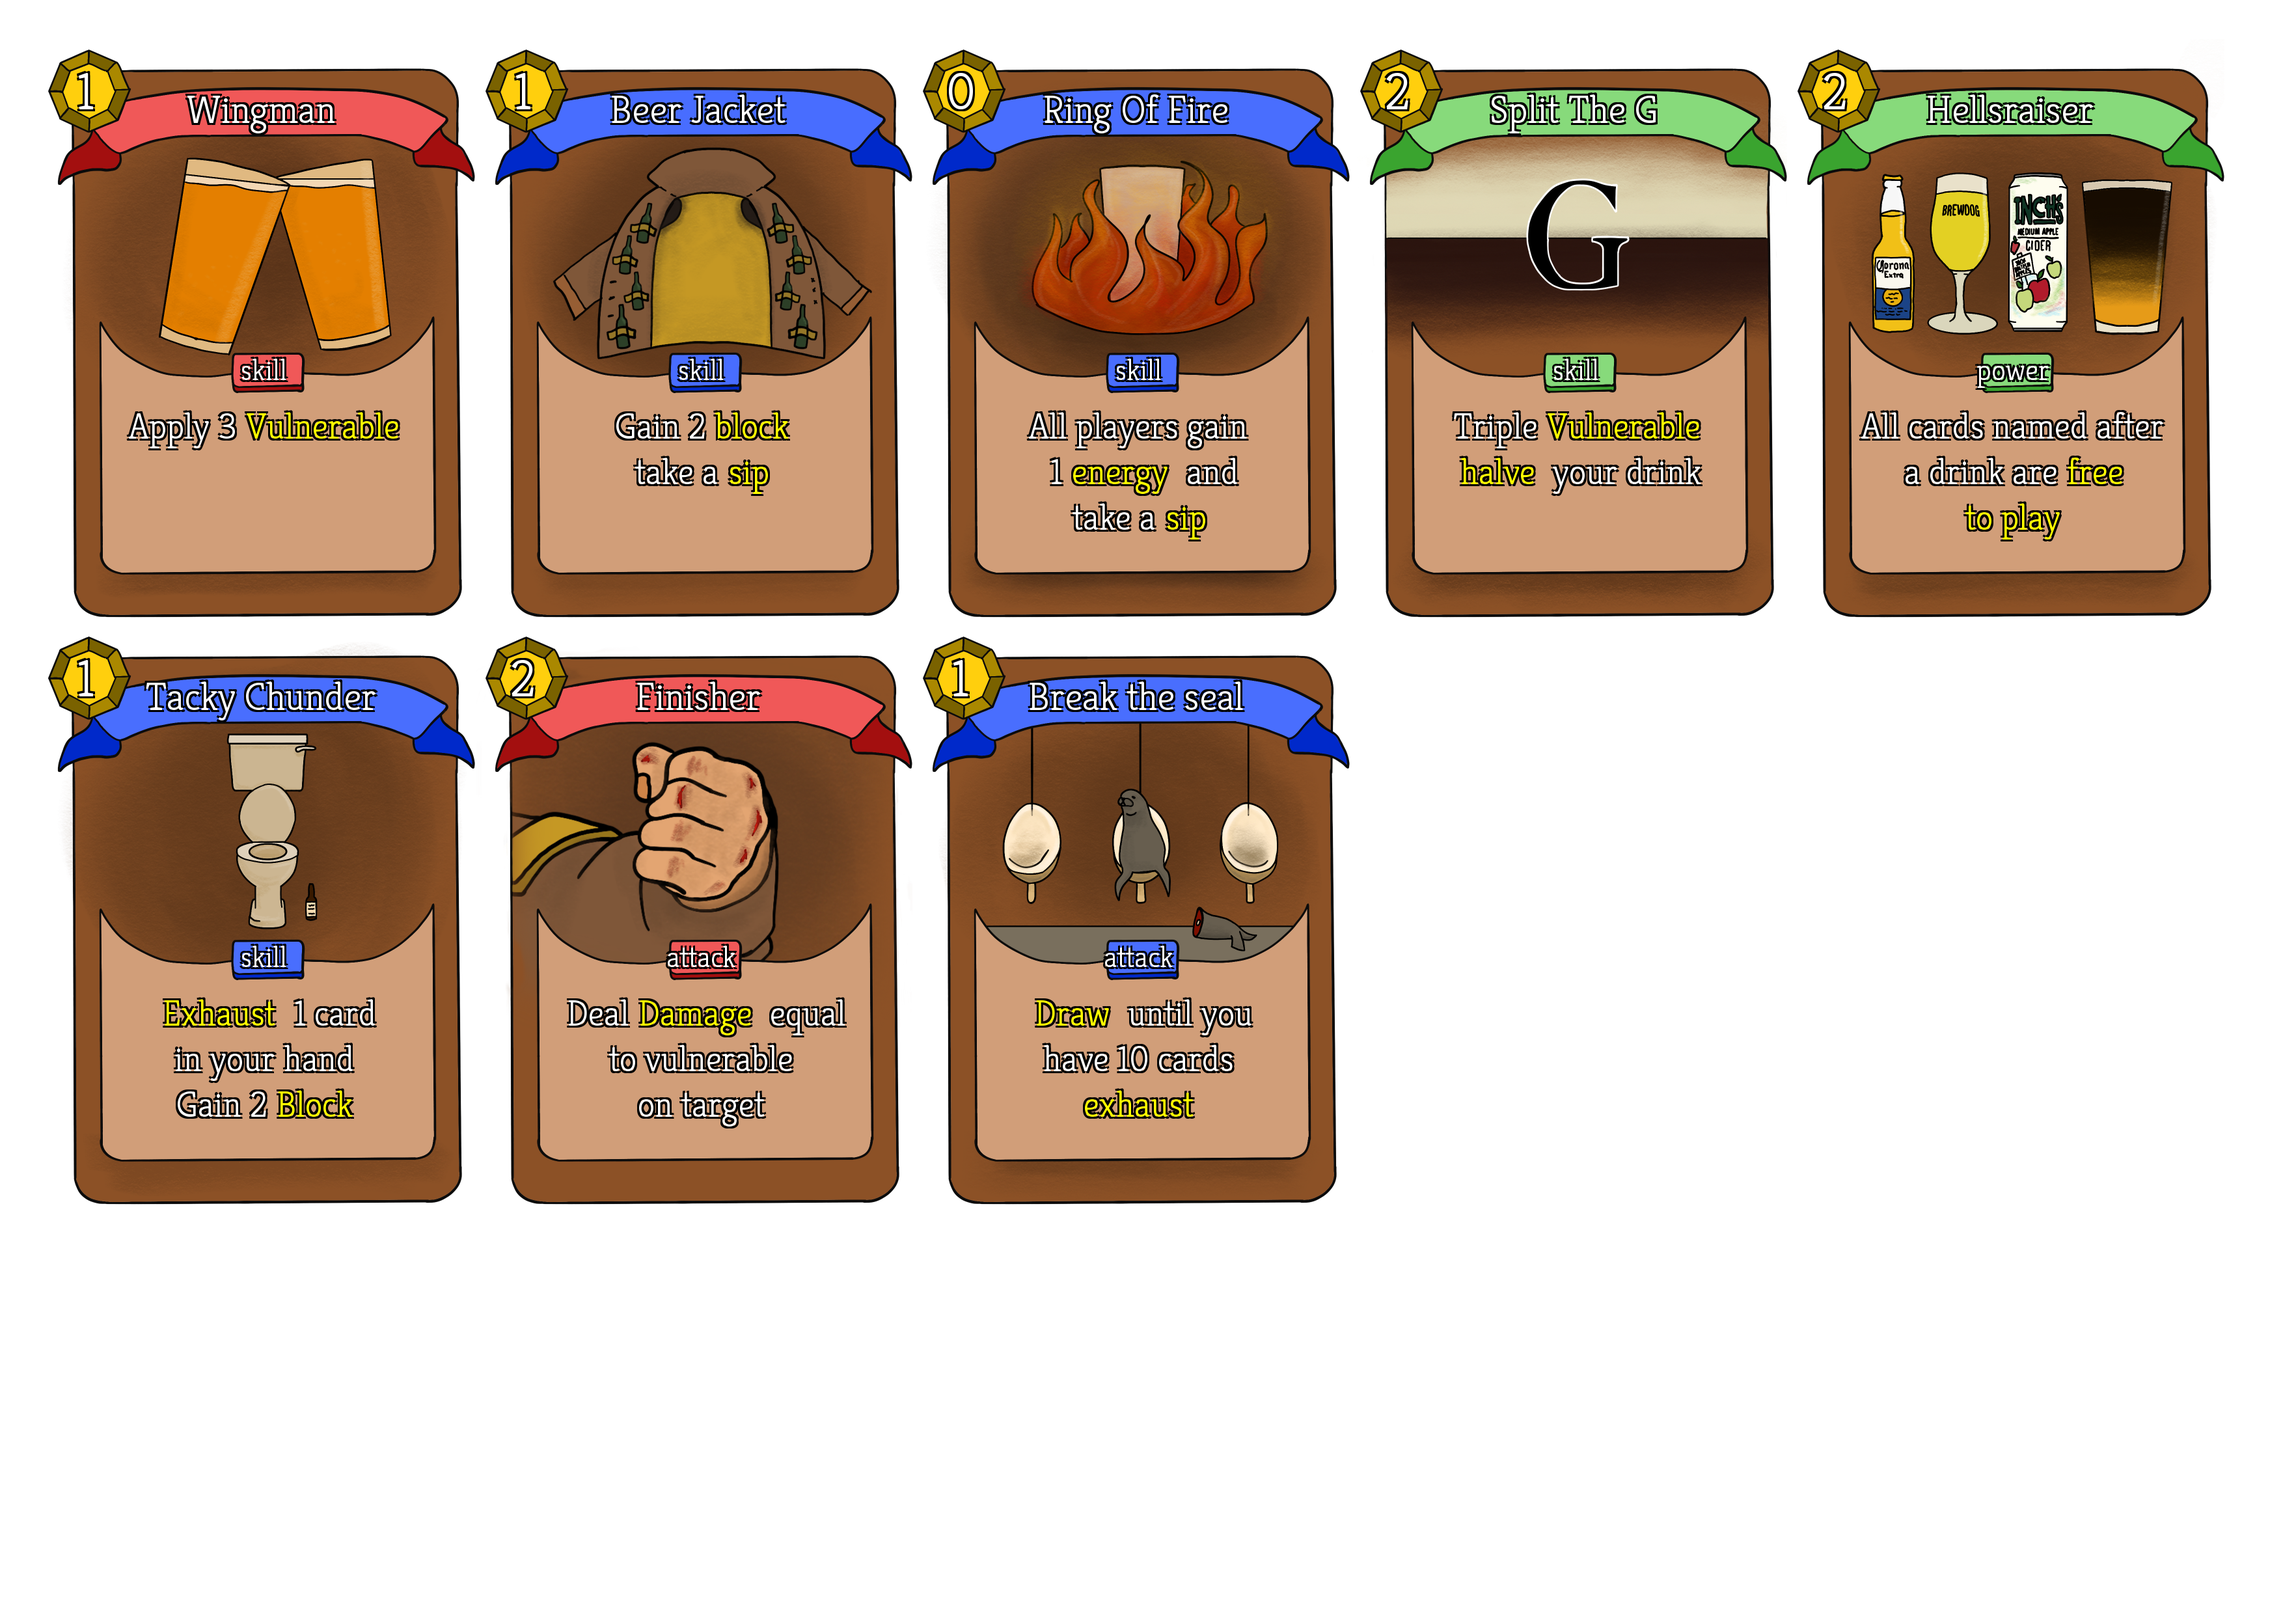
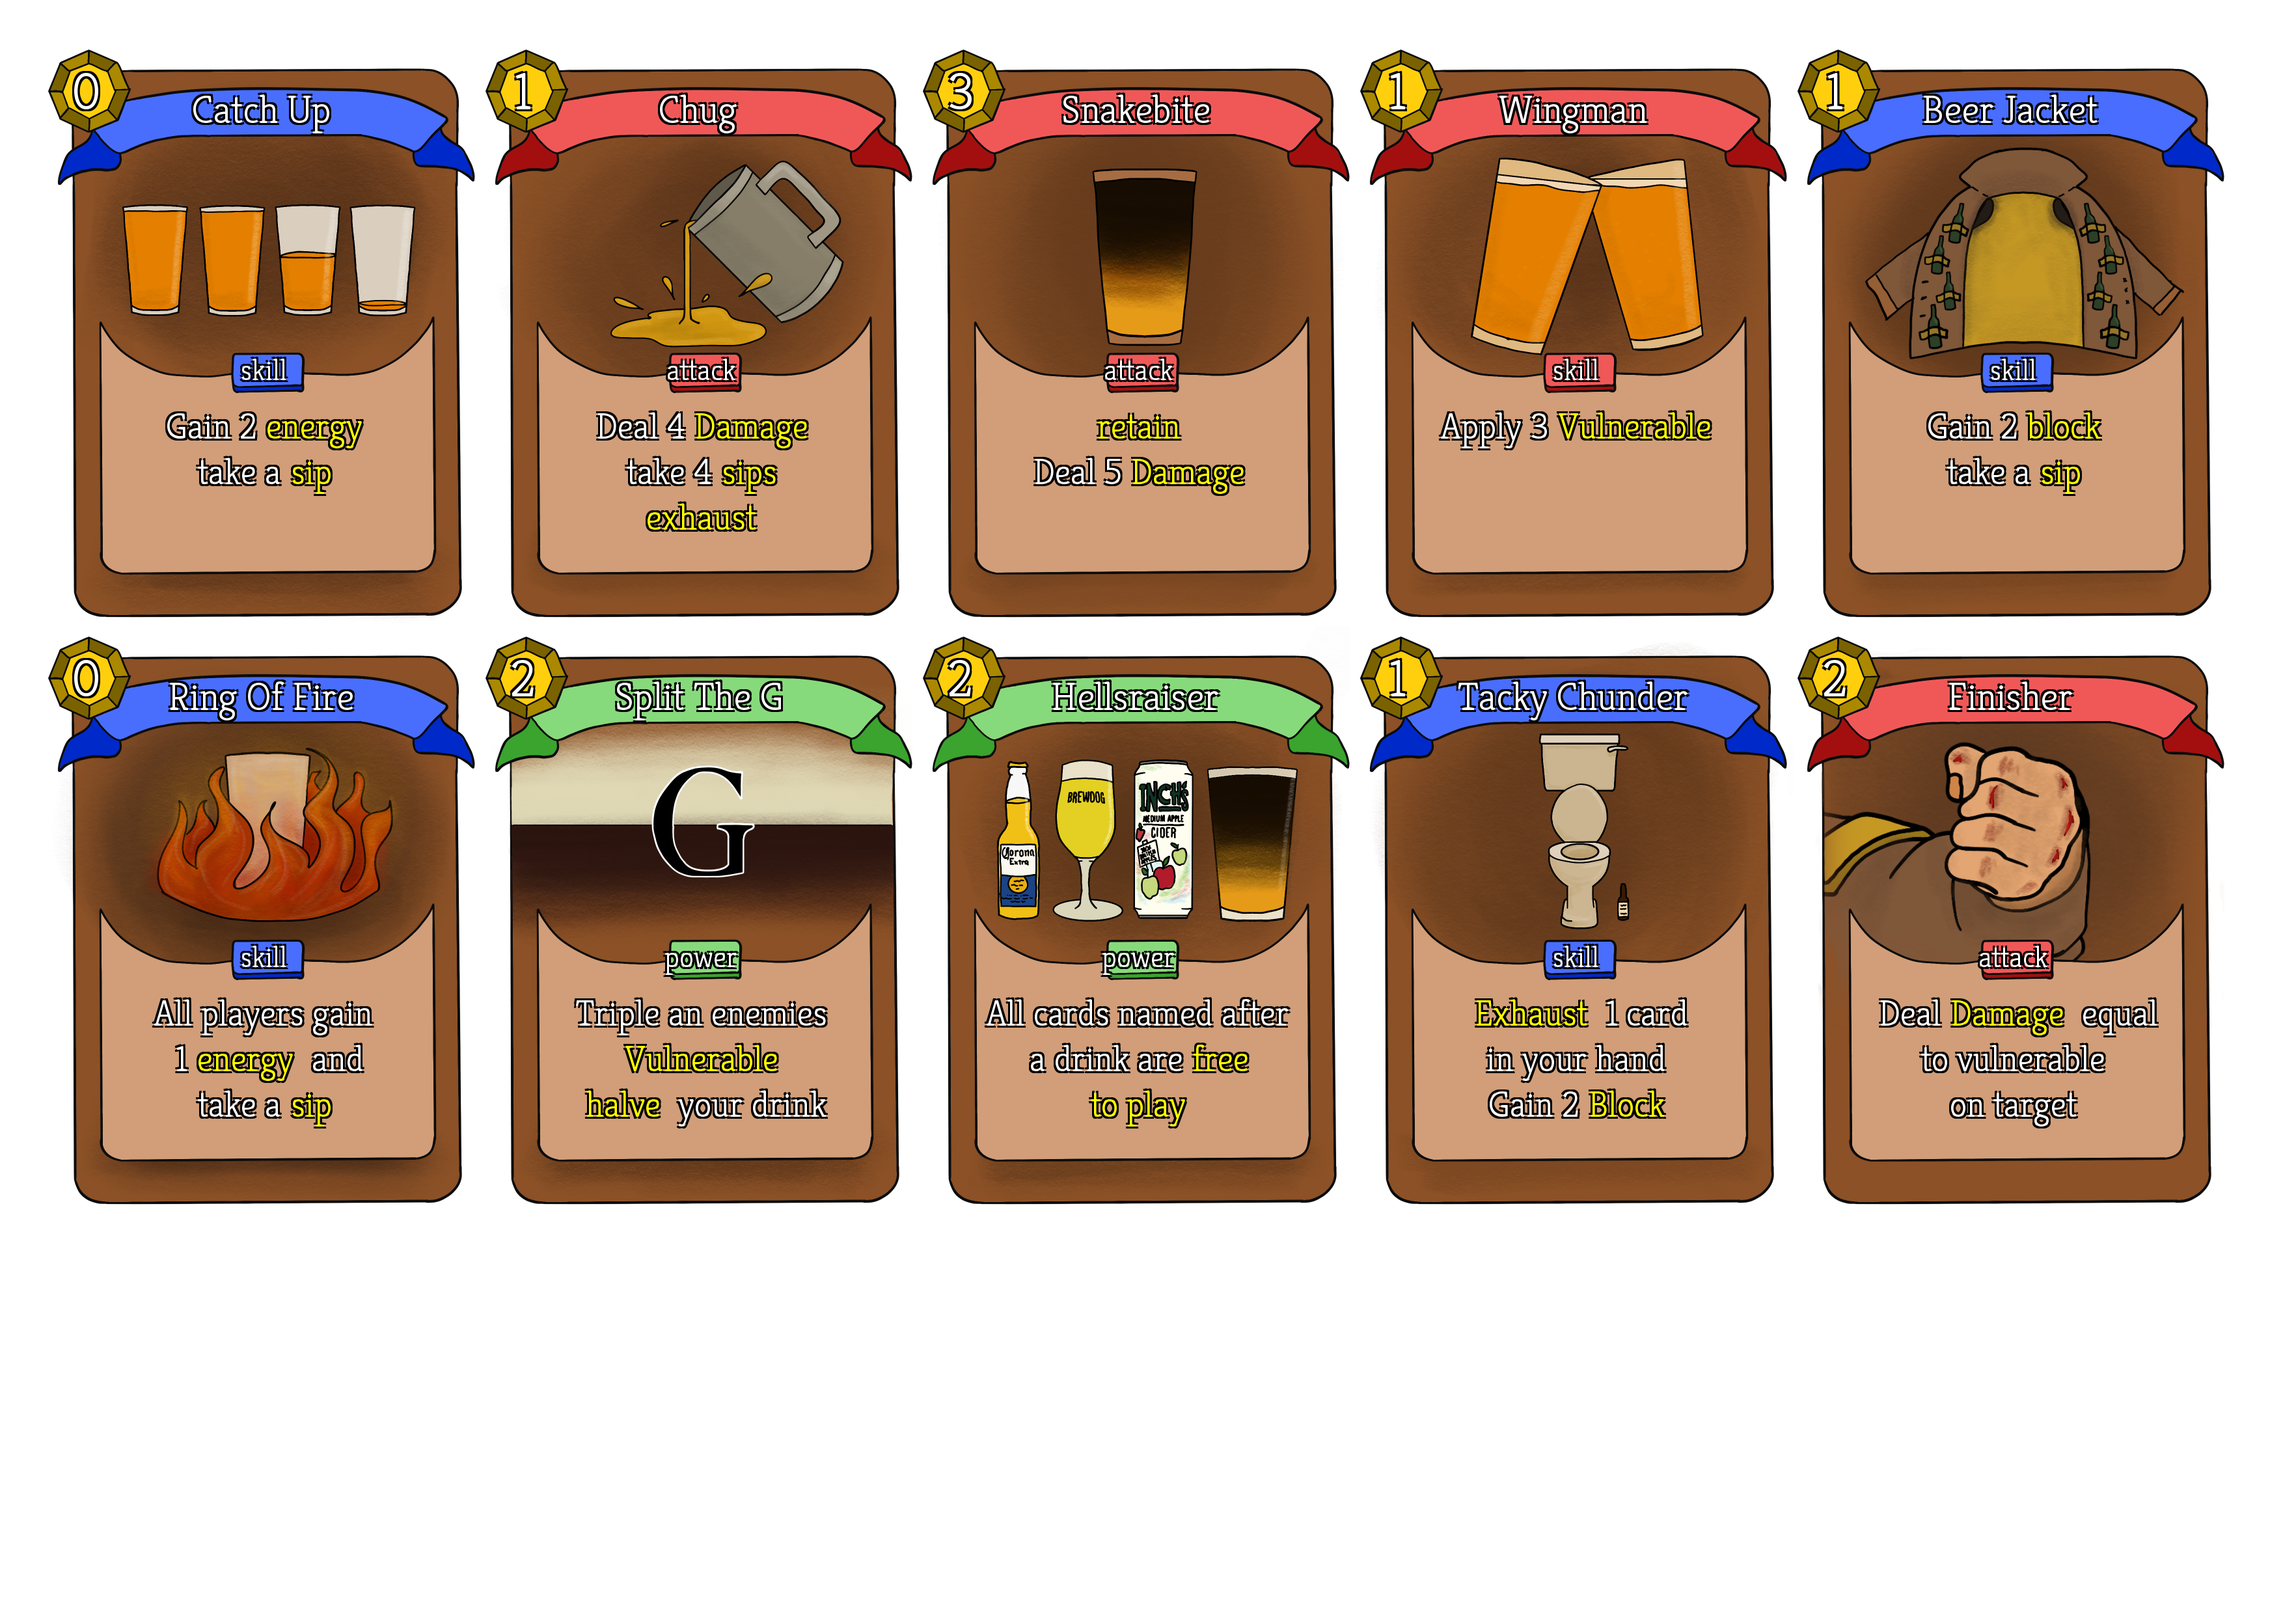
more cards added

diff --git a/cardGen.py b/cardGen.py
@@ -61,24 +61,68 @@ cards = [ # art, name, type, energy, description
     # ("./art/cards/beer/defend.png","Defend", "skill", 1,["Gain 1 $Block$"]),
     ("./art/cards/beer/alcoholic_rage.png","Alcoholic Rage", "skill", 1,["Apply 1 $Weak$", "and 1 $Vulnerable", "take a $sip$"]),
     ("./art/cards/beer/corona.png","Corona", "attack", 1,["$Draw$ 1 card","Deal 1 $Damage$","take 1 $sip$"]),
-    ("./art/cards/beer/brewdog.png","Brewdog", "attack", 1,["Apply 1 $Vulnerable$","Deal 1 $Damage$"]),
+    ("./art/cards/beer/corona.png","Corona", "attack", 1,["$Draw$ 1 card","Deal 1 $Damage$","take 1 $sip$"]),
+    ("./art/cards/beer/brewdog.png","Brewdog", "attack", 1,["Apply 1 $Vulnerable$","Deal 1 $Damage$","take a $sip$"]),
+    ("./art/cards/beer/inchs.png","Inchs", "attack", 1,["Deal 1 $Damage$","to ALL enemies","take 1 $sip$"]),
     ("./art/cards/beer/inchs.png","Inchs", "attack", 1,["Deal 1 $Damage$","to ALL enemies","take 1 $sip$"]),
     ("./art/cards/beer/peroni.png","Peroni", "skill", 1,["All players gain","2 $Block$","take a $sip$"]),
     ("./art/cards/beer/relaxing_pint.png","Relaxing Pint", "skill", 1,["$Heal$ 2","take a $sip$","$exhaust$"]),
     ("./art/cards/beer/on_tap.png","On Tap", "skill", 1,["$Draw$ 1 card","2 more if its named","after a drink"]),
-    ("./art/cards/beer/catch_up.png","Catch Up", "skill", 1,["Gain 2 $energy$","take a $sip$"]),
+    ("./art/cards/beer/catch_up.png","Catch Up", "skill", 0,["Gain 2 $energy$","take a $sip$"]),
+    ("./art/cards/beer/catch_up.png","Catch Up", "skill", 0,["Gain 2 $energy$","take a $sip$"]),
     ("./art/cards/beer/chug.png","Chug", "attack", 1,["Deal 4 $Damage$","take 4 $sips$","$exhaust$"]),
     ("./art/cards/beer/snakebite.png","Snakebite", "attack", 3,["$retain$","Deal 5 $Damage$"]),
     ("./art/cards/beer/wingman.png","Wingman", "skill", 1,["Apply 3 $Vulnerable$"]),
     ("./art/cards/beer/beer_coat.png","Beer Jacket", "skill", 1,["Gain 2 $block$", "take a $sip$"]),
     ("./art/cards/beer/ring_of_fire.png","Ring Of Fire", "skill", 0,["All players gain","1 $energy$ and", "take a $sip$"]),
-    ("./art/cards/beer/split_the_g.png","Split The G", "skill", 2,["Triple $Vulnerable$","$halve$ your drink"]),
+    ("./art/cards/beer/split_the_g.png","Split The G", "power", 2,["Triple an enemies","$Vulnerable$","$halve$ your drink"]),
     ("./art/cards/beer/hellsraiser.png","Hellsraiser", "power", 2,["All cards named after","a drink are $free$","$to play$"]),
     ("./art/cards/beer/tacky_chunder.png","Tacky Chunder", "skill", 1,["$Exhaust$ 1 card","in your hand","Gain 2 $Block$"]),
     ("./art/cards/beer/finisher.png","Finisher", "attack", 2,["Deal $Damage$ equal","to vulnerable","on target"]),
     ("./art/cards/beer/break_the_seal.png","Break the seal", "attack", 1,["$Draw$ until you","have 10 cards","$exhaust$"]),
 
     #region cocktail mixer
+    ("./art/cards/cocktail/strike.png","Strike", "attack", 1,["Deal 1 $Damage$"]),
+    ("./art/cards/cocktail/defend.png","Defend", "skill", 1,["Gain 1 $Block$"]),
+    ("./art/cards/cocktail/strike.png","Strike", "attack", 1,["Deal 1 $Damage$"]),
+    ("./art/cards/cocktail/defend.png","Defend", "skill", 1,["Gain 1 $Block$"]),
+    ("./art/cards/cocktail/strike.png","Strike", "attack", 1,["Deal 1 $Damage$"]),
+    ("./art/cards/cocktail/defend.png","Defend", "skill", 1,["Gain 1 $Block$"]),
+    ("./art/cards/cocktail/clearly_strong.png","Clearly Strong", "skill", 0,["$Brew$ a splash","of $vodka$"]),
+    ("./art/cards/cocktail/lemon_up.png","Lemon Up", "skill", 0,["$Brew$ a shot","of $lemonade$"]),
+    ("./art/cards/cocktail/down_the_hatch.png","Down The Hatch", "skill", 2,["$Drink$ everything","all effects occur"]),
+    ("./art/cards/cocktail/bump_the_flavour.png","Bump The Flavour", "skill", 1,["$Brew$ a splash","of $squash$"]),
+    ("./art/cards/cocktail/see_sunrise.png","See Sunrise", "skill", 1,["$Brew$ a shot","of $orange juice$"]),
+    ("./art/cards/cocktail/red_moon.png","Red moon", "skill", 1,["$Brew$ a shot","of $cranberry juice$"]),
+    ("./art/cards/cocktail/schnapp_to_it.png","Schnapp to it", "skill", 2,["$Brew$ a splash","of $vodka$"]),
+    ("./art/cards/cocktail/blue_moon.png","Blue Moon", "skill", 1,["$Brew$ a splash","of $blue curacao$","$exhaust$"]),
+    ("./art/cards/cocktail/gin_to_win.png","Gin To Win", "skill", 1,["$Brew$ a splash","of $gin$"]),
+    ("./art/cards/cocktail/rumaway.png","Rumaway", "skill", 2,["$Brew$ a splash","of $rum$","$exhaust$"]),
+    ("./art/cards/cocktail/drunken_wallop.png","Drunken Wallop", "attack", 1,["Deal $Damage$ equal","to enemy tipsy"]),
+    ("./art/cards/cocktail/spin_the_bottle.png","Spin The Bottle", "skill", 1,["$Draw$ 4 cards","$Discard$ 4 cards"]),
+    ("./art/cards/cocktail/roulette.png","Roulette", "skill", 0,["50%: Gain 2 $Block$","50%: Gain 2 $tipsy$"]),
+    ("./art/cards/cocktail/ride_the_bus.png","Ride The Bus", "skill", 1,["If enemy is $tipsy$", "apply 3 $tipsy$","otherwise apply 1"]),
+    ("./art/cards/cocktail/taste_test.png","Taste Test", "skill", 0,["Gain 2 $energy$", "take a $sip$"]),
+    ("./art/cards/cocktail/key_ingredients.png","Key Ingredients", "skill", 1,["Choose any 2 cards","in your $draw pile$","to $put in hand$"]),
+    ("./art/cards/cocktail/seal_of_approval.png","Seal Of Approval", "skill", 1,["Another player tries","your drink","both $Draw$ 3"]),
+    ("./art/cards/cocktail/keep_it_flowing.png","Keep It Flowing", "skill", 1,["Apply 1 $tipsy$","Gain 1 $Block$","$Draw$ 1 card"]),
+    ("./art/cards/cocktail/keep_it_flowing.png","Keep It Flowing", "skill", 1,["Apply 1 $tipsy$","Gain 1 $Block$","$Draw$ 1 card"]),
+    ("./art/cards/cocktail/get_it_started.png","Get It Started", "skill", 2,["If enemy has no $tipsy$", "apply 4 $tipsy$"]),
+    ("./art/cards/cocktail/alchemist.png","Alchemist", "power", 1,["Whenever you $Brew$", "Gain 1 $Block$"]),
+
+    #designated driver
+    ("./art/cards/driver/strike.png","Strike", "attack", 1,["Deal 1 $Damage$"]),
+    ("./art/cards/driver/defend.png","Defend", "skill", 1,["Gain 1 $Block$"]),
+    ("./art/cards/driver/strike.png","Strike", "attack", 1,["Deal 1 $Damage$"]),
+    ("./art/cards/driver/defend.png","Defend", "skill", 1,["Gain 1 $Block$"]),
+    ("./art/cards/driver/strike.png","Strike", "attack", 1,["Deal 1 $Damage$"]),
+    ("./art/cards/driver/defend.png","Defend", "skill", 1,["Gain 1 $Block$"]),
+    ("./art/cards/driver/supply_bag.png","Supply Bag", "skill", 1,["Give a player with", "space a random","$simple potion$"]),
+    ("./art/cards/driver/not_for_me.png","Not For Me", "skill", 1,["You don't need to","$Drink$ next time"]),
+    ("./art/cards/driver/maybe_just_one.png","Maybe Just One", "skill", 0,["Gain 2 $energy$", "take a $sip$"]),
+    ("./art/cards/driver/wake_up_call.png","Wake Up Call", "skill", "X",["Deal 1 $Damage$"]),
+    ("./art/cards/driver/strike.png","Strike", "attack", 1,["Deal 1 $Damage$"]),
+    ("./art/cards/driver/strike.png","Strike", "attack", 1,["Deal 1 $Damage$"]),
 ]
 
 from PIL import Image, ImageDraw, ImageFont

diff --git a/Slay the spire irl planning/characters/Cocktail mixer.md b/Slay the spire irl planning/characters/Cocktail mixer.md
@@ -28,7 +28,7 @@ wasted: take double damage this turn
 [[Ride the bus]] (Apply 1 tipsy, 3 for already tipsy targets. Costs 1, SKILL)
 [[Taste test]] (Gain 2 energy, take a sip, costs 0, SKILL)
 [[Key ingredients]] (Choose any two cards from your draw pile and add them to your hand, 1 cost, SKILL, RARE)
-[[Seal of approval]] (Another player tries your drink, both draw 3 cards, exhaust, 1 cost SKILL)
+[[Seal of approval]] (Another player tries your drink, both draw 3 cards, 1 cost SKILL)
 [[Keep it flowing]] (Apply 1 tipsy, gain 1 block, draw 1 card, 1 cost SKILL, COMMON)
 [[Get it started]] (If an enemy has no tipsy, apply 4 tipsy, 2 cost SKILL)
 [[Alchemist]]  (Whenever you brew, gain 1 block, 1 cost POWER)
